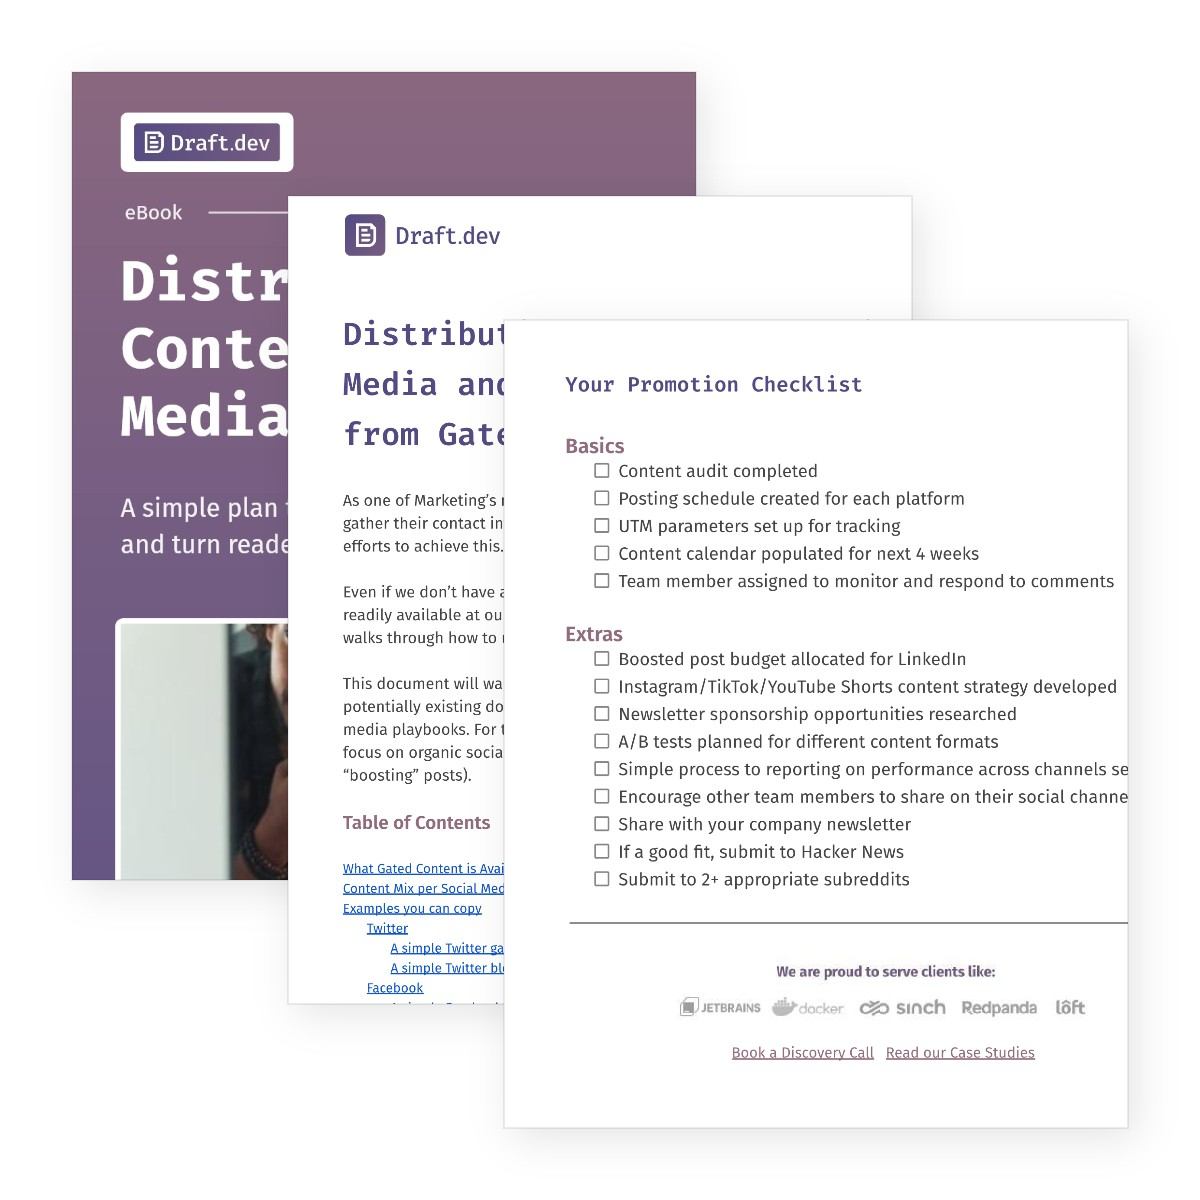
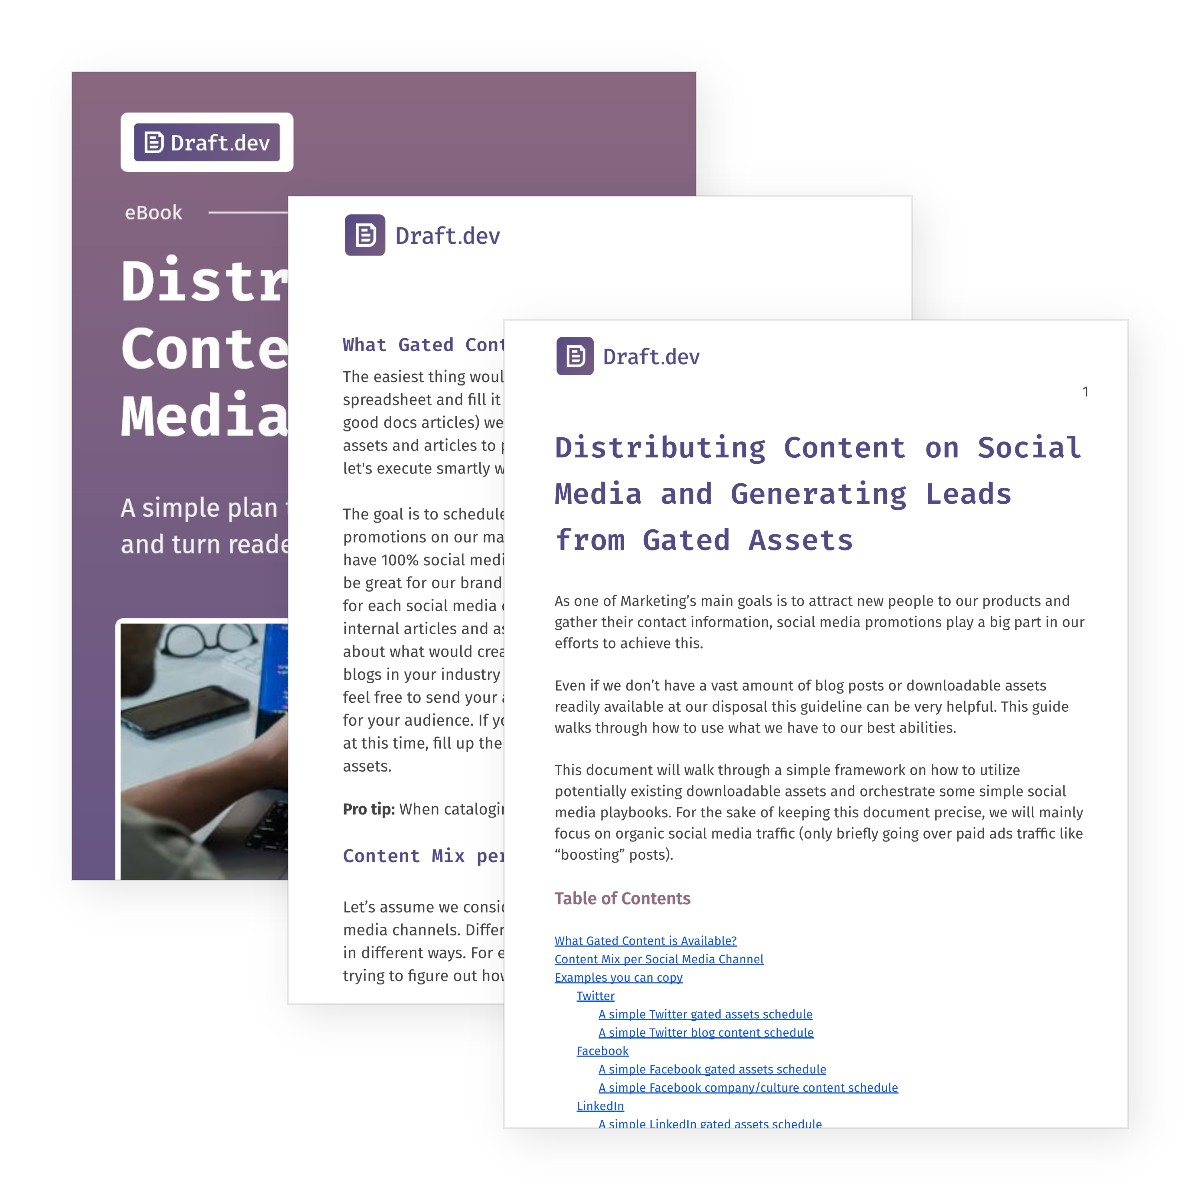
Simplify Reddit copy and clean up its guide image

Changed region(s): [[0.4625, 0.2775, 0.925, 0.9558], [0.2775, 0.2467, 0.4317, 0.8325], [0.0925, 0.4933, 0.2467, 0.74]]

diff --git a/src/app/reddit-marketing-for-devtools/page.tsx b/src/app/reddit-marketing-for-devtools/page.tsx
@@ -11,7 +11,7 @@ import Partner from '@/components/page-components/service-landing/partner'
 import type { Metadata } from 'next'
 
 const description =
-  'We get your product mentioned in the Reddit threads your buyers already read. Our engineers write every comment, and these threads also show up in Google and in AI answers.'
+  'We get your product mentioned in the Reddit threads your buyers already read. Our engineers write helpful comments that name your product where it fits.'
 
 export const metadata: Metadata = {
   metadataBase: new URL('https://draft.dev'),
@@ -75,27 +75,27 @@ export default function RedditMarketing() {
       />
       <main>
         <Features
-          title="Get Mentioned in Reddit Threads That Already Rank"
-          subtitle="Helpful answers from real engineers, in the threads your buyers read"
+          title="Get Mentioned Where Developers Ask for Advice"
+          subtitle="Helpful answers from engineers, in the threads your buyers read"
           features={[
             {
               title: 'Find the right threads',
               description:
-                "Our engineers use your product first. Then we find the threads where people ask about tools like yours, and pick the ones that already show up in Google. We don't start threads, run AMAs (Ask Me Anything posts) or buy Reddit ads.",
+                'Our engineers use your product. Then we find the Reddit threads where people ask about tools like yours, starting with the ones that already show up in Google and AI answers.',
               linkText: 'See how we turn content into growth',
               linkHref: '/drive-awareness',
             },
             {
               title: 'Mentions written by subject matter experts',
               description:
-                'Reddit removes anything that looks like an ad, and developers spot it right away. So each comment is written by one of our 300+ engineer-writers who has used tools like yours. It answers the question first and has no link.',
+                'Developers ignore anything that sounds like an ad. So each comment is written by one of our 300+ engineer-writers who has used tools like yours. It answers the question first and mentions your product where it helps.',
               linkText: 'See some of our content examples',
               linkHref: '/technical-content-examples',
             },
             {
-              title: 'Measure what matters, not clicks',
+              title: 'Reports on what changed',
               description:
-                "The comments have no links, so we don't count clicks. We track where your product is mentioned, how those threads rank in Google, and how often AI tools name you. Every month you see what changed.",
+                'We track where your product is mentioned, how those threads rank in Google, and how often AI tools name you. Every month, you see what changed.',
               linkText: 'See our approach to AEO and GEO',
               linkHref: '/aeo-geo-services-for-devtools',
             },
@@ -105,9 +105,9 @@ export default function RedditMarketing() {
         <Partner
           title="A distribution partner that understands technical communities"
           paragraphs={[
-            'Developers talk about tools like yours on Reddit every day. Those threads often rank above your own website, in Google and in AI answers. But subreddits remove anything that looks like marketing, so most teams stay away.',
-            "So we take part the way an engineer would. We follow each subreddit's rules, never buy upvotes, and only comment when we can answer the question.",
-            'You approve the threads, we post the comments, and we watch how each thread does. Every month, we show you which threads help people find you and update the list.',
+            'Developers ask Reddit before they choose a tool. They post questions, compare options and share what worked. Those threads often show up above your own website, in Google and in AI answers.',
+            "But Reddit doesn't welcome marketing. Comments that sound like an ad get removed, and developers stop listening. That's why our comments are written by engineers who have used tools like yours, and follow each subreddit's rules.",
+            'Before anything goes live, you approve the threads. Every month, we report where your product was mentioned and how those threads are doing, and use what we learn to pick the next ones.',
           ]}
         />
         <TestimonialCarousel
@@ -219,17 +219,17 @@ export default function RedditMarketing() {
           {
             question: 'Will this get us banned?',
             answer:
-              "We follow each subreddit's rules. We don't start threads, run AMAs, buy ads, or post where the rules don't allow it. Every comment is helpful even without your product name in it.",
+              "We follow each subreddit's rules and only comment where we can help. Every comment is useful even without your product name in it.",
           },
           {
-            question: "Why don't the comments include a link?",
+            question: 'Which threads do you comment on?',
             answer:
-              'Subreddits often remove comments with links. A mention without a link still works, because these threads show up in Google and in AI answers when people are choosing a tool.',
+              'Threads where people ask about tools like yours, starting with the ones that show up in Google and AI answers. You approve the list before we post.',
           },
           {
-            question: 'How do you measure results without clicks?',
+            question: 'How do you measure results?',
             answer:
-              'We track where your product is mentioned, how those threads rank in Google, and how often AI tools name you. You see the before and after every month.',
+              'We track where your product is mentioned, how those threads rank in Google, and how often AI tools name you. You get a report every month.',
           },
         ]}
       />
